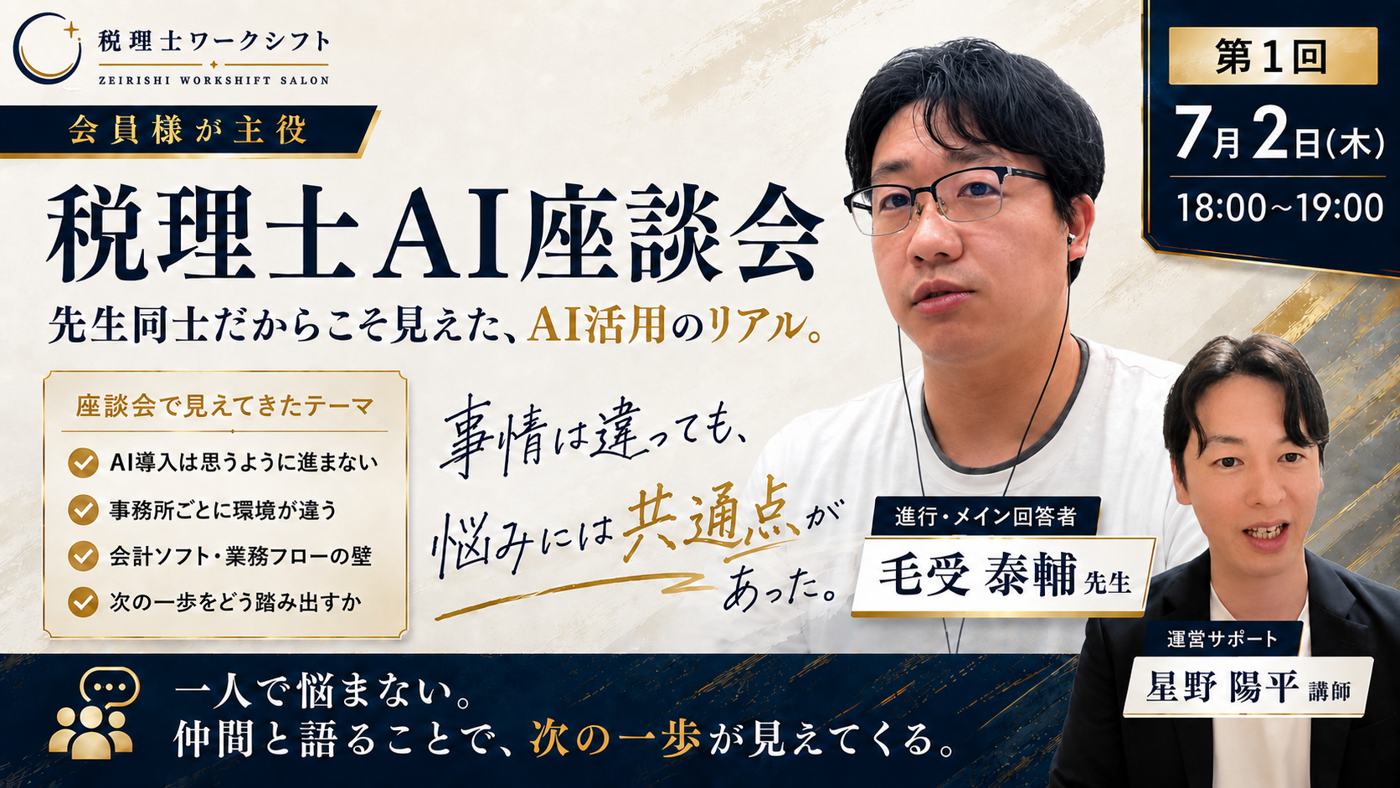
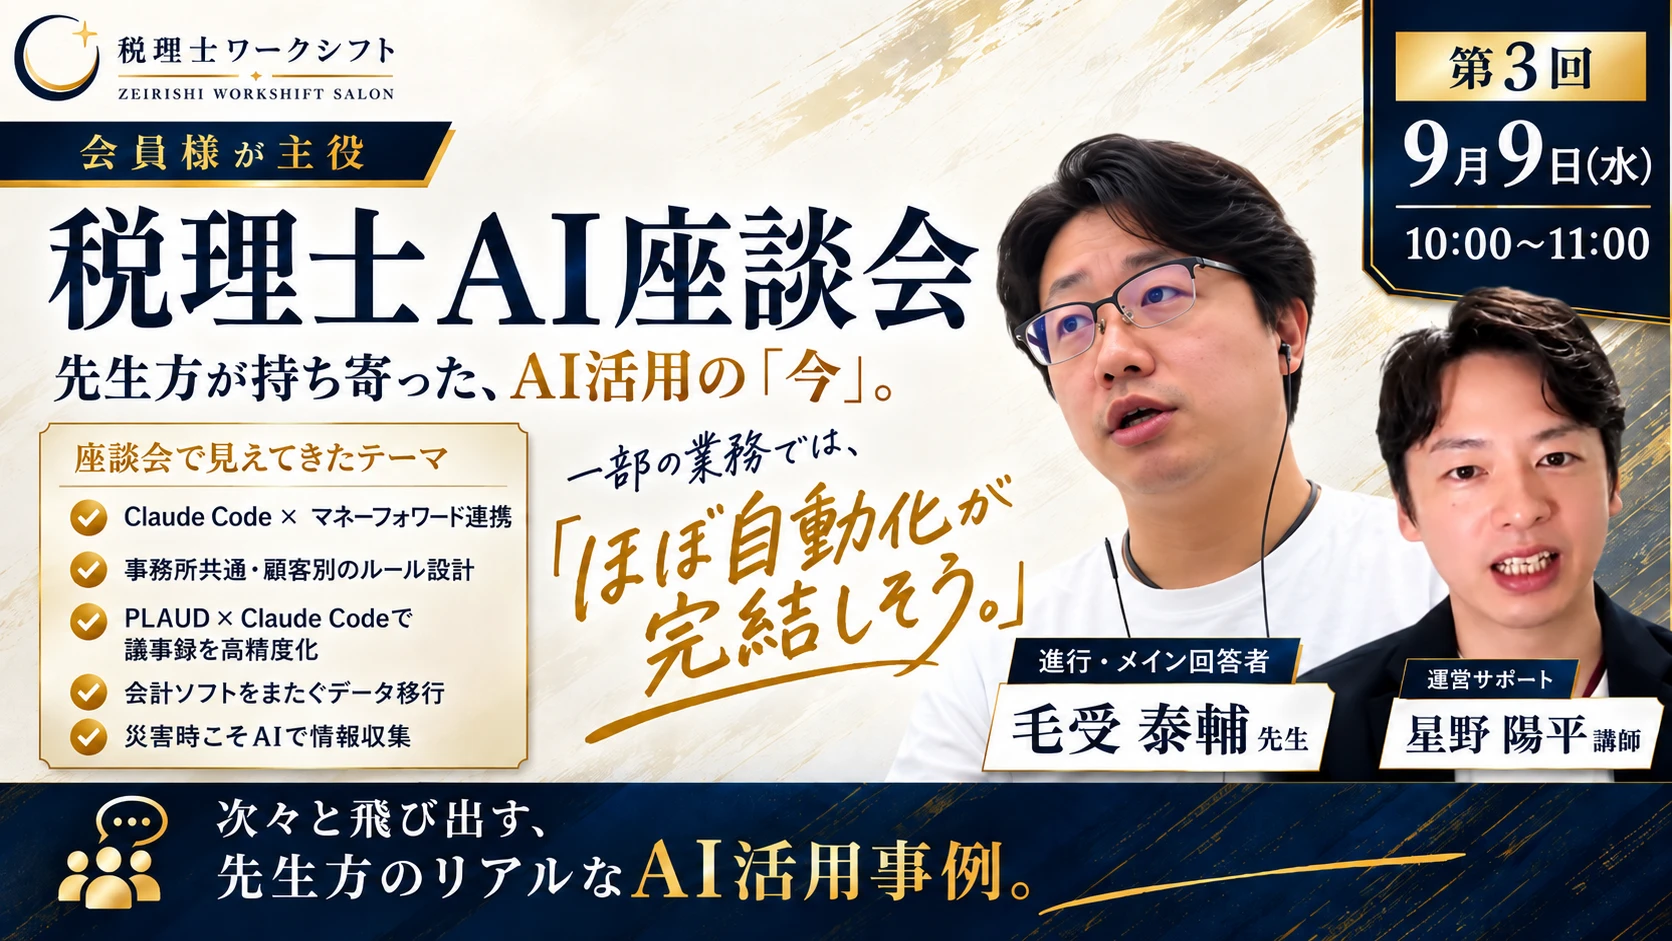
LP更新: 佐藤氏の情報を削除・課題解決 個別サポート会を追加・効率化の実例セクション新設・木下プロフィールに運営表記追加・座談会バナーを第3回に更新・実績(60名以上/満足度4.5)追加

diff --git a/index.html b/index.html
@@ -729,6 +729,28 @@ strong{font-weight:700}
 .price-list li::before{content:"\2713";flex:none;width:25px;height:25px;border-radius:50%;background:var(--grad-gold);color:#23170a;display:grid;place-items:center;font-size:.82rem;font-weight:900}
 .price-value{position:relative;z-index:1;text-align:center;margin-top:28px;font-family:var(--serif);font-size:1.04rem;color:var(--ink);line-height:2}
 .price-foot{text-align:center;font-size:.8rem;color:var(--muted);margin:18px auto 0;max-width:1000px}
+.price-proof{display:flex;justify-content:center;gap:clamp(22px,6vw,72px);flex-wrap:wrap;text-align:center;max-width:1000px;margin:0 auto 40px}
+.price-proof .pp{min-width:118px}
+.price-proof .pp b{display:block;font-family:var(--serif);font-size:clamp(2rem,5vw,2.9rem);line-height:1;color:var(--gold-deep)}
+.price-proof .pp b small{font-size:.4em;font-weight:700;margin-left:3px}
+.price-proof .pp span{display:block;margin-top:7px;font-size:.82rem;color:var(--muted)}
+.cases-note{display:block;font-size:.78rem;color:var(--muted-2);margin-top:10px;line-height:1.7}
+.cases-grid{display:grid;grid-template-columns:repeat(3,1fr);gap:24px;max-width:1080px;margin:0 auto}
+.case-card{background:var(--paper);border:1px solid var(--line);border-radius:var(--radius);padding:28px 24px 24px;box-shadow:var(--shadow);text-align:center}
+.case-card .case-tag{display:inline-block;font-size:.72rem;font-weight:800;letter-spacing:.14em;color:#23170a;background:var(--grad-gold);border-radius:999px;padding:4px 15px}
+.case-card h3{font-family:var(--serif);font-size:1.26rem;color:var(--ink);margin:14px 0 5px}
+.case-scene{font-size:.82rem;color:var(--gold-deep);font-weight:700;margin:0 0 18px}
+.case-ba{display:flex;align-items:center;justify-content:center;gap:14px;margin:0 0 14px}
+.case-ba .ba-col{display:flex;flex-direction:column;gap:1px;min-width:82px}
+.case-ba .ba-lab{font-size:.66rem;font-weight:800;letter-spacing:.1em;color:var(--muted)}
+.case-ba b{font-family:var(--serif);font-size:1.5rem;color:var(--ink);line-height:1.15}
+.case-ba small{font-size:.7rem;color:var(--muted)}
+.case-ba .ba-after b{color:var(--gold-deep)}
+.case-ba .ba-arrow{color:var(--gold-deep);font-weight:900;font-size:1.3rem}
+.case-cut{font-family:var(--serif);font-size:1.02rem;color:var(--ink);margin:0 0 12px}
+.case-cut b{font-size:1.9rem;color:#c0392b;margin-right:2px}
+.case-tool{display:inline-block;font-size:.75rem;color:var(--muted);background:var(--bg);border:1px solid var(--line);border-radius:999px;padding:5px 14px}
+@media(max-width:820px){.cases-grid{grid-template-columns:1fr;max-width:440px}}
 @media (max-width:760px){.price-main{grid-template-columns:1fr}.price-left{border-right:none;border-bottom:1px solid rgba(176,137,73,.25)}.pn-num{font-size:3.3rem}.price-left,.price-right{padding:32px 26px}}
 .offer{background:var(--bg);padding:90px 0}
 .offer-card{position:relative;overflow:hidden;background:var(--grad-navy);color:#fff;border-radius:var(--radius-lg);padding:66px 56px;text-align:center;box-shadow:var(--shadow-lg)}
@@ -999,15 +1021,7 @@ strong{font-weight:700}
             <span class="hf-sub">税理士法人レディング 代表社員</span>
             <span class="hf-sub">全国の税理士が学ぶ相続のプロ</span>
             <span class="hf-sub">相続案件3,000件超の実績</span>
-          </span>
-        </div>
-        <div class="hf-person">
-          <span class="fa"><img src="assets/sato.png" alt="佐藤 尚功" /></span>
-          <span class="ft">
-            <span class="hf-role">特別講師・監修</span>
-            <b>佐藤 尚功</b>
-            <span class="hf-sub">株式会社ウツセバ CEO ｜ AX支援500社以上</span>
-            <span class="hf-sub">AIと教育で日本を幸せ先進国へ</span>
+            <span class="hf-sub">AIのプロフェッショナルチームと共に運営</span>
           </span>
         </div>
       </div>
@@ -1176,6 +1190,56 @@ strong{font-weight:700}
       <span class="bi"><svg viewBox="0 0 24 24" fill="none" stroke="currentColor" stroke-width="2"><circle cx="12" cy="12" r="9"/><circle cx="12" cy="12" r="5"/><circle cx="12" cy="12" r="1.6"/></svg></span>
     </div>
     <p class="evo-bandsub reveal">税理士業務は、AIを<b>「使う」</b>段階から<b>「任せる」</b>段階へ進化する。</p>
+  </div>
+</section>
+
+<!-- ============ 4.5 CASES — 効率化の実例 ============ -->
+<section class="section cases" id="cases" data-screen-label="効率化の実例">
+  <div class="container">
+    <div class="section-head reveal">
+      <p class="section-eyebrow">REAL EXAMPLES</p>
+      <h2 class="section-title">AIで、仕事は<span class="em">ここまで</span>変わる。</h2>
+      <div class="gold-rule"><i></i><b></b><i></i></div>
+      <p class="section-sub">実際の税理士業務での、効率化の実例です。<span class="cases-note">※ 導入事務所・会員個人の一例です。効果は業務内容・活用状況により異なります。</span></p>
+    </div>
+    <div class="cases-grid">
+      <article class="case-card reveal">
+        <span class="case-tag">CASE 01</span>
+        <h3>土地資料の整理・リネーム</h3>
+        <p class="case-scene">相続税申告業務｜300〜400筆の土地資料</p>
+        <div class="case-ba">
+          <div class="ba-col"><span class="ba-lab">Before</span><b>約8時間</b><small>手作業</small></div>
+          <span class="ba-arrow">→</span>
+          <div class="ba-col ba-after"><span class="ba-lab">After</span><b>約15分</b><small>AIで自動処理</small></div>
+        </div>
+        <p class="case-cut"><b>約97%</b>削減</p>
+        <p class="case-tool">AIエージェント（Claude Code）</p>
+      </article>
+      <article class="case-card reveal" data-delay="1">
+        <span class="case-tag">CASE 02</span>
+        <h3>領収書の仕分け</h3>
+        <p class="case-scene">記帳業務｜クレジットカード・現金の区分</p>
+        <div class="case-ba">
+          <div class="ba-col"><span class="ba-lab">Before</span><b>約3時間</b><small>手作業</small></div>
+          <span class="ba-arrow">→</span>
+          <div class="ba-col ba-after"><span class="ba-lab">After</span><b>約10分</b><small>AIで自動処理</small></div>
+        </div>
+        <p class="case-cut"><b>約94%</b>削減</p>
+        <p class="case-tool">AIエージェント（Claude Code）</p>
+      </article>
+      <article class="case-card reveal" data-delay="2">
+        <span class="case-tag">CASE 03</span>
+        <h3>コラムの下書き作成</h3>
+        <p class="case-scene">情報発信｜税務コラム（A4・1ページ）</p>
+        <div class="case-ba">
+          <div class="ba-col"><span class="ba-lab">Before</span><b>約1時間</b><small>調べて作成</small></div>
+          <span class="ba-arrow">→</span>
+          <div class="ba-col ba-after"><span class="ba-lab">After</span><b>約15分</b><small>AIで下書き＋精査</small></div>
+        </div>
+        <p class="case-cut"><b>約75%</b>削減</p>
+        <p class="case-tool">チャット型AI（ChatGPT 等）</p>
+      </article>
+    </div>
   </div>
 </section>
 
@@ -1379,7 +1443,7 @@ strong{font-weight:700}
         <div class="svc-item"><svg viewBox="0 0 24 24" fill="none" stroke="currentColor" stroke-width="2" aria-hidden="true"><path d="M12 20h9"/><path d="M16.5 3.5a2.12 2.12 0 0 1 3 3L7 19l-4 1 1-4z"/></svg>課題を出して、添削を受ける<span class="svc-meta">予習・実践課題（講師が個別添削）</span></div>
         <div class="svc-item"><svg viewBox="0 0 24 24" fill="none" stroke="currentColor" stroke-width="2" aria-hidden="true"><path d="M3 12a9 9 0 1 0 2.8-6.5"/><path d="M3 4v5h5"/></svg>フォローアップ会で追いつく<span class="svc-meta">同内容をもう一度・丁寧に解説</span></div>
         <div class="svc-item"><svg viewBox="0 0 24 24" fill="none" stroke="currentColor" stroke-width="2" aria-hidden="true"><circle cx="9" cy="8" r="3.5"/><path d="M2.5 20a6.5 6.5 0 0 1 13 0"/><path d="M16 5a3.5 3.5 0 0 1 0 7M21.5 20a6.5 6.5 0 0 0-4.5-6.2"/></svg>座談会・交流会で語り合う<span class="badge-new">NEW</span><span class="svc-meta">税理士AI座談会（月1回）＋リアル交流会（第1回 10月2日・東京）</span></div>
-        <div class="svc-item"><svg viewBox="0 0 24 24" fill="none" stroke="currentColor" stroke-width="2" aria-hidden="true"><path d="M5 9h14M5 15h14M9.5 3l-2 18M16.5 3l-2 18"/></svg>Slackで仲間と情報交換する<span class="svc-meta">質問・知見共有はいつでも</span></div>        </div>
+        <div class="svc-item"><svg viewBox="0 0 24 24" fill="none" stroke="currentColor" stroke-width="2" aria-hidden="true"><rect x="3" y="4" width="18" height="13" rx="2"/><path d="M8 21h8M12 17v4"/></svg>画面共有で課題を解決する<span class="badge-new">NEW</span><span class="svc-meta">課題解決 個別サポート会（定員5名・毎週）</span></div>        </div>
       </article>
       <article class="flow-card reveal" data-delay="4">
         <header class="flow-head">
@@ -1438,16 +1502,6 @@ strong{font-weight:700}
       </p>
     </div>
   </div>
-  <div class="container">
-    <div class="founder-extra reveal">
-      <div class="fx-avatar"><img src="assets/sato.png" alt="佐藤 尚功" /></div>
-      <div class="fx-body">
-        <span class="fx-role">特別講師・監修</span>
-        <h3>佐藤 尚功 <small>株式会社ウツセバ 代表取締役CEO</small></h3>
-        <p>「AIと教育で日本を幸せ先進国へ」を理念に掲げ、企業のAX（AIトランスフォーメーション）支援は<strong>500社以上</strong>。AI実装と現場定着のプロフェッショナルとして、本サロンの実践プログラムを監修しています。</p>
-      </div>
-    </div>
-  </div>
 </section>
 
 
@@ -1478,6 +1532,7 @@ strong{font-weight:700}
               <li>参加者も一緒に手を動かす実演ワーク</li>
               <li>最新AI動向と厳選ツールの解説</li>
               <li>税理士メンターが会員目線で伴走</li>
+              <li>2026年9月より、税理士法人レディング 木村英幸先生も登壇</li>
             </ul>
             <p class="sd-close">身につくのは、AIの進化に合わせて更新され続ける「実務で使える力」です。</p>
           </div>
@@ -1628,13 +1683,27 @@ strong{font-weight:700}
           </div>
         </article>
         <article class="sd-card reveal">
-          <figure class="sd-visual"><img src="assets/zadankai-banner.png" alt="税理士AI座談会 第1回（2026年7月2日開催）：会員様が主役。先生同士だからこそ見えた、AI活用のリアル" loading="lazy" /></figure>
+          <figure class="sd-visual"><img src="assets/support-session.png" alt="課題解決 個別サポート会：定員5名の少人数オンラインで、画面を共有しながら一人ひとりの業務課題をその場で解決" loading="lazy" /><span class="sd-imgnote">※画面はイメージです</span></figure>
+          <div class="sd-txt">
+            <p class="sd-name">画面共有で、その場で解決</p>
+            <h4>課題解決 個別サポート会<span class="badge-new">NEW</span></h4>
+            <p class="sd-lead">学んだAIを実務にどう活かすか迷ったとき、講師と一緒に画面を見ながら、その場で解決する60分。定員5名の少人数だから、お一人ずつじっくり進みます。</p>
+            <ul>
+              <li>定員5名・毎週開催の少人数オンライン</li>
+              <li>画面を共有しながら、個別の業務課題を解決</li>
+              <li>毎週でも、月1回だけでもOK。自分のペースで</li>
+            </ul>
+            <p class="sd-close">「わからないまま止まっていた業務」が、その日のうちに動き出します。</p>
+          </div>
+        </article>
+        <article class="sd-card reveal">
+          <figure class="sd-visual"><img src="assets/zadankai-banner.png" alt="税理士AI座談会 第3回（2026年9月9日開催）：会員様が主役。先生方が持ち寄った、AI活用の「今」" loading="lazy" /></figure>
           <div class="sd-txt">
             <p class="sd-name">仲間と本音で語り合う</p>
             <h4>税理士AI座談会（月1回・会員が主役）</h4>
             <p class="sd-lead">講師が教える場ではなく、先生方が語り合う場。同じ立場の税理士同士だから話せる、リアルな導入事例と本音の相談があります。</p>
             <ul>
-              <li>進行役は、AI活用が進んでいる会員の税理士</li>
+              <li>進行役：毛受 泰輔 先生（AI活用が進む会員の税理士）</li>
               <li>会員同士で課題と解決策を導き合う</li>
               <li>オンライン開催。全国どこからでも参加できる</li>
             </ul>
@@ -1793,7 +1862,7 @@ strong{font-weight:700}
       </div>
       <p class="mo-kino">主宰の木下先生も、Slackやセミナーで、会員の先生方と一緒に学んでいます。</p>
       <p class="mo-close">決まったペースに合わせる場所ではなく、<strong>あなたのペースで進める場所</strong>です。<br class="pc-only" />——だから、一人も置き去りにしない。</p>
-      <p class="mo-fact">開設から約8ヶ月、先生方が続けている理由が、ここにあります。</p>
+      <p class="mo-fact">開設から約9ヶ月、先生方が続けている理由が、ここにあります。</p>
     </div>
 
     <p class="mo-note">※ 開催時期は月により異なる場合があります。ある月の過ごし方のイメージです。</p>
@@ -1982,6 +2051,11 @@ strong{font-weight:700}
       <h2 class="section-title">これだけ揃って、<span class="em">月３万円</span>。</h2>
       <p class="section-sub"><strong>会費以上の価値を生む業務効率化</strong>——実現のためのサポートが、ここに揃っています。<br class="pc-only" />セミナー、ツール、ナレッジ、仲間——すべて込みで<strong>月額３万円</strong>（税込33,000円）。<br class="pc-only" />１日あたり１,１００円——24時間365日、AIツールと学びの環境をご活用いただけます。</p>
     </div>
+    <div class="price-proof reveal">
+      <div class="pp"><b>60<small>名以上</small></b><span>在籍する税理士</span></div>
+      <div class="pp"><b>4.5<small>/5</small></b><span>会員満足度</span></div>
+      <div class="pp"><b>約15<small>分</small></b><span>1時間の作業が</span></div>
+    </div>
     <div class="price-card reveal">
       <div class="price-glow" aria-hidden="true"></div>
       <div class="price-main">
@@ -1997,6 +2071,7 @@ strong{font-weight:700}
           <p class="price-incl-h">これだけ入って、月３万円。</p>
           <ul class="price-list">
             <li>AI実用セミナー（月1回・90分）＋フォローアップ会</li>
+            <li>課題解決 個別サポート会（定員5名・毎週）</li>
             <li>解説動画ライブラリ（60本以上・毎月追加）</li>
             <li>クエスト式AI研修ツール「バケるAI」</li>
             <li>AI必殺仕訳人（追加費用なし・無制限）</li>
@@ -2083,7 +2158,7 @@ strong{font-weight:700}
       </details>
       <details class="faq-item reveal">
         <summary>退会はいつでもできますか？</summary>
-        <div class="faq-body"><p>はい、いつでもお手続きいただけます。会費は月額制で、月の途中からでもご入会いただけます。初回に決済された日が毎月の決済日となり、クレジットカードで自動引き落としされます。退会をご希望の際は、毎月の決済日の10日前までにご連絡のうえお手続きください。お手続き後も、決済日の前日までサービスをご利用いただけます。なお、2025年12月の開設から約8ヶ月、多くの先生が当初から継続してご参加くださっています。</p></div>
+        <div class="faq-body"><p>はい、いつでもお手続きいただけます。会費は月額制で、月の途中からでもご入会いただけます。初回に決済された日が毎月の決済日となり、クレジットカードで自動引き落としされます。退会をご希望の際は、毎月の決済日の10日前までにご連絡のうえお手続きください。お手続き後も、決済日の前日までサービスをご利用いただけます。なお、2025年12月の開設から約9ヶ月、多くの先生が当初から継続してご参加くださっています。</p></div>
       </details>
     </div>
   </div>
@@ -2121,7 +2196,6 @@ strong{font-weight:700}
     <div class="footer-meta">
       <p>運営：税理士法人レディング ／ 株式会社HKキャピタル</p>
       <p>主宰：税理士法人レディング 代表社員 木下勇人（相続専門税理士）</p>
-      <p>特別講師・監修：株式会社ウツセバ CEO 佐藤尚功</p>
       <p>お問い合わせ：leding.clientdesk@gmail.com</p>
       <p class="footer-links">
         <a href="tokushoho.html">特定商取引法に基づく表記</a>
